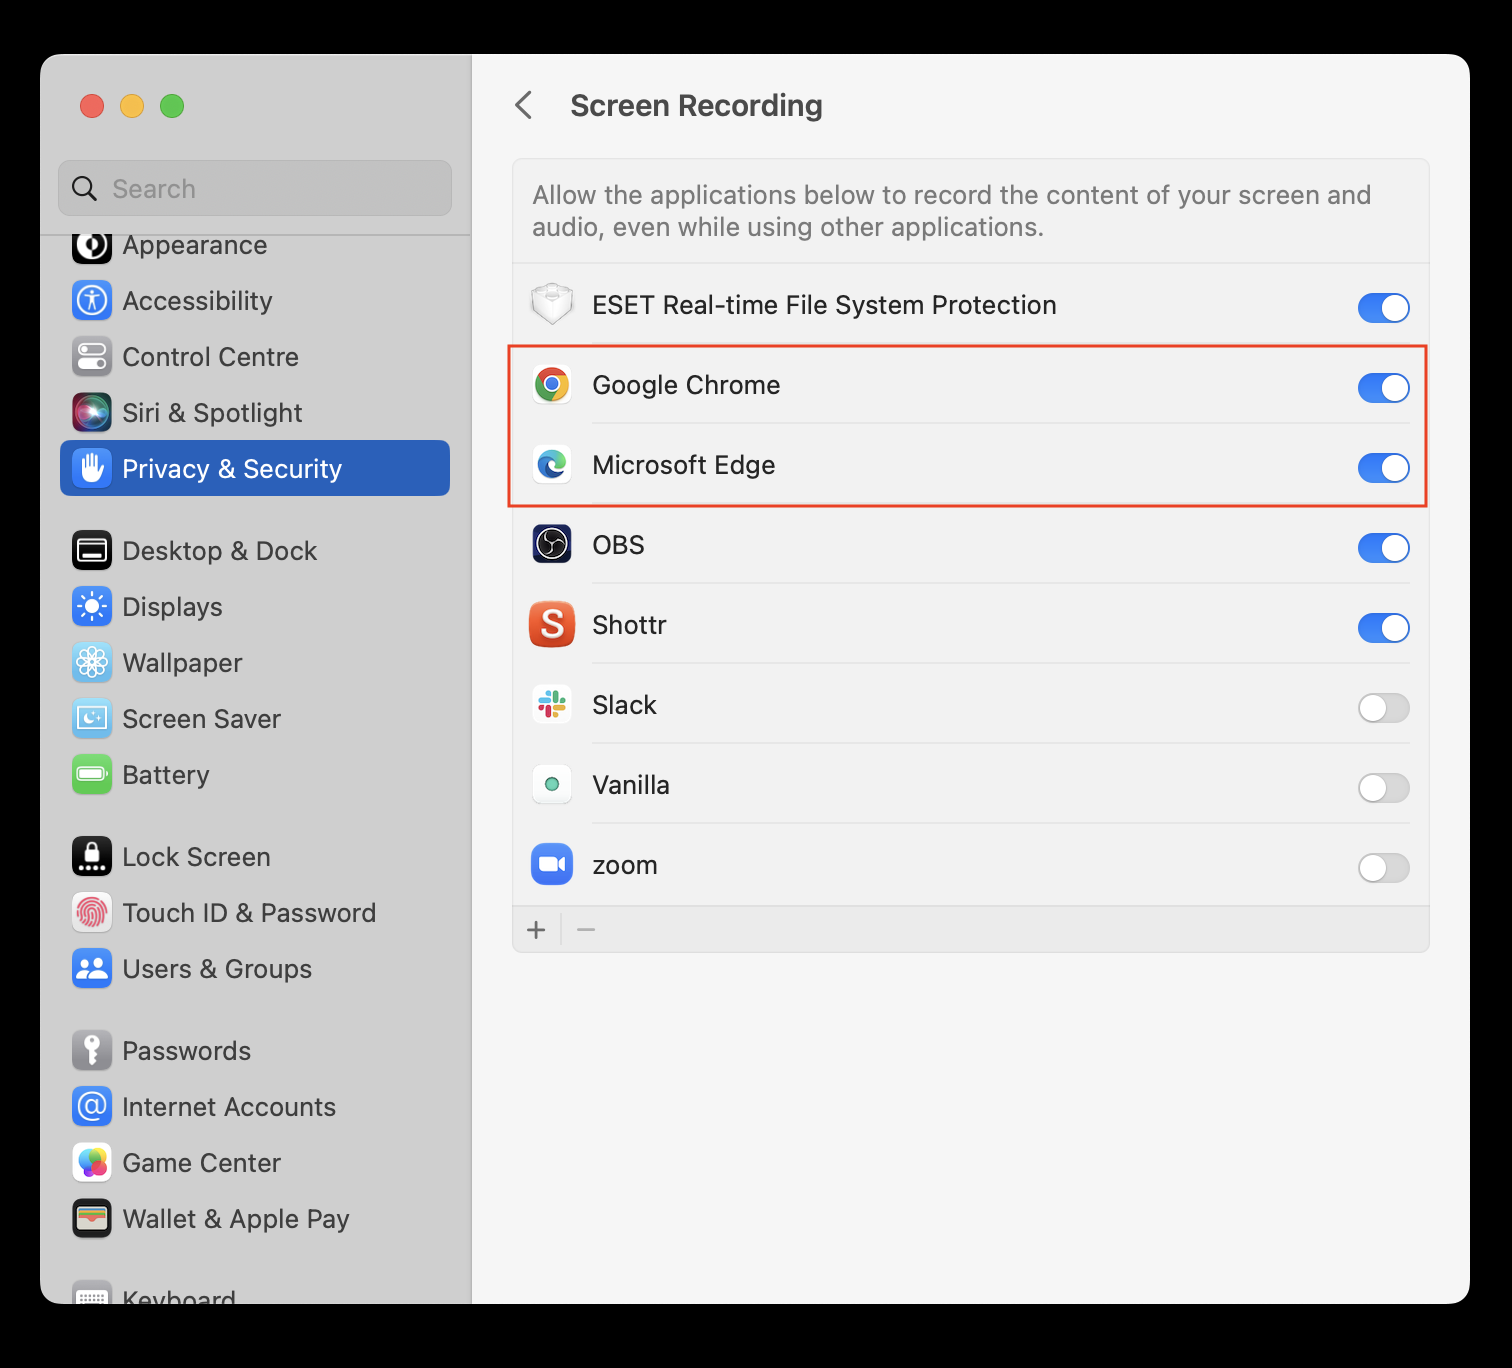
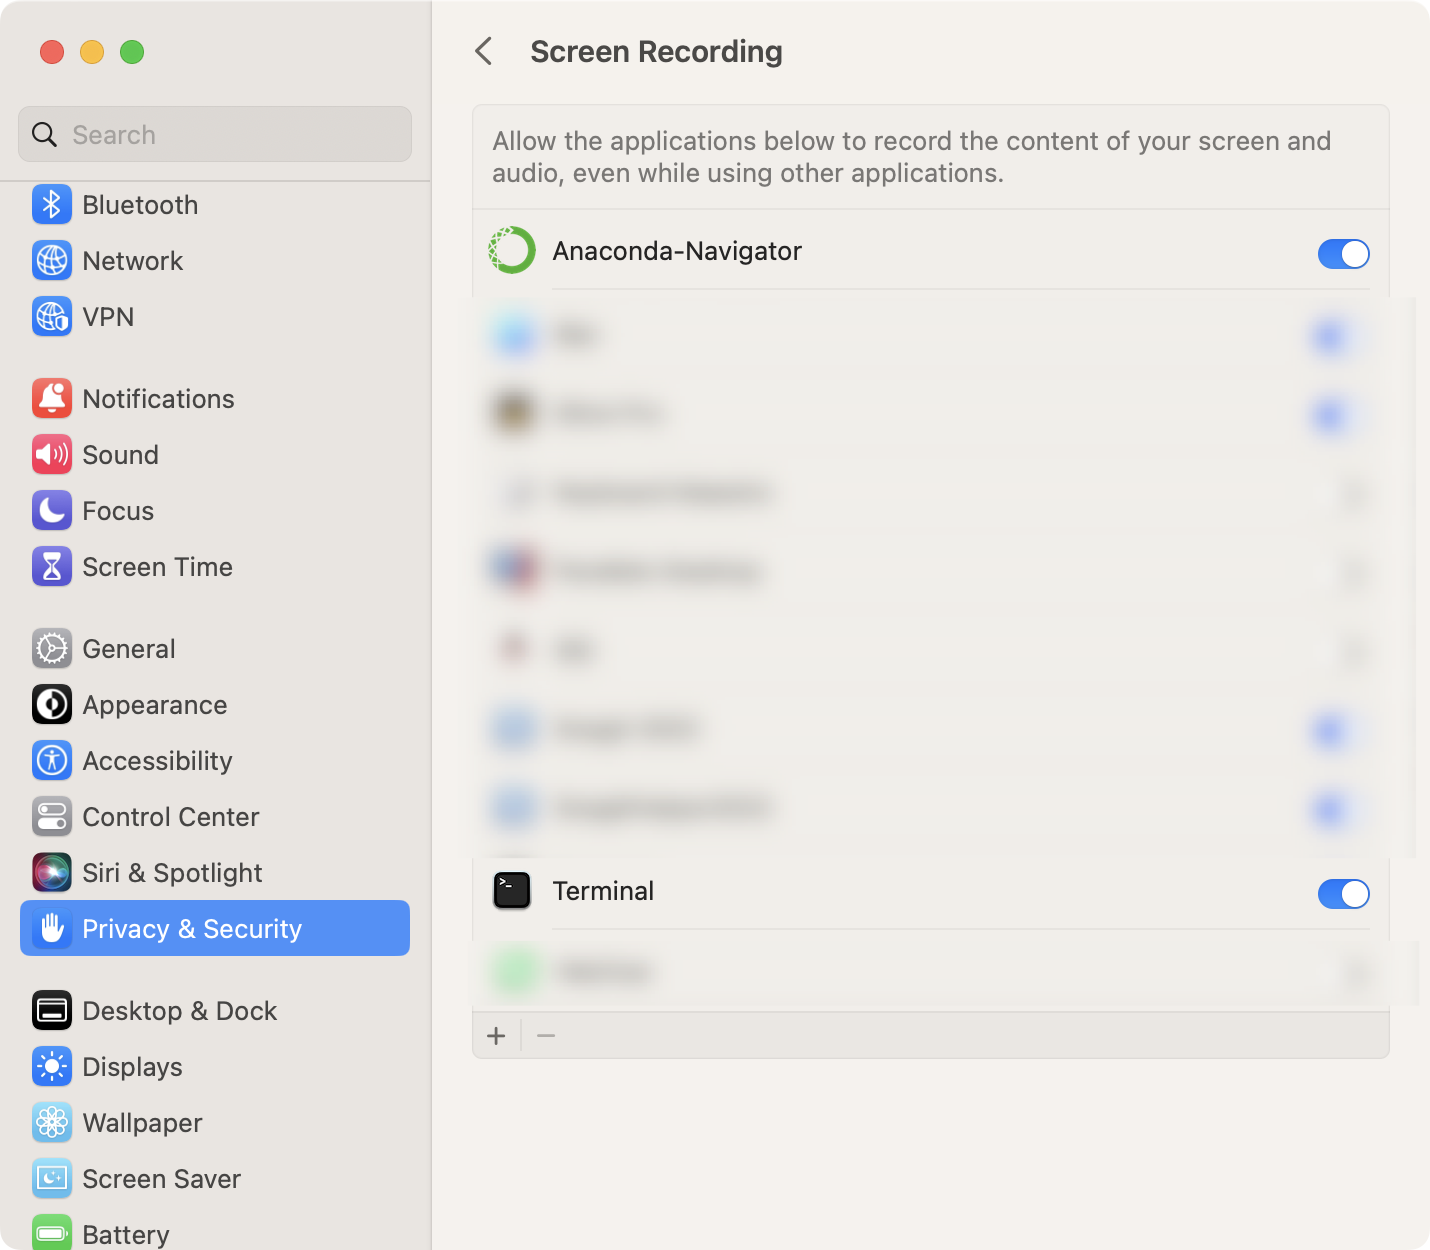
Clarify Terminal privacy permissions in setup guide (#22)
Use Terminal-focused Screen Recording and Accessibility screenshots and document that macOS may attribute shell-launched permission requests to the terminal host rather than a dedicated iPad Display/helper entry.

diff --git a/docs/setup.md b/docs/setup.md
@@ -35,17 +35,19 @@ The network check should report `192.168.2.1` as present before starting the dis
 
 ## 3. Grant Screen Recording for display capture
 
-Run the display once so macOS can register the capture process:
+Run the display once so macOS registers a Screen Recording request:
 
 ```bash
 ipad
 ```
 
-Then open **System Settings → Privacy & Security → Screen Recording** and enable the entry macOS added for the iPad Display/Electron capture process. If macOS asks you to quit or restart the process, do so, then start `ipad` again.
+Then open **System Settings → Privacy & Security → Screen Recording**. For the normal Terminal-launched install, macOS may attribute the request to **Terminal** rather than showing an `iPad Display` or Electron entry. Enable **Terminal** when that is the requester shown. If you launch the project from iTerm2, another terminal, or an IDE instead, enable the application macOS lists for that launch path.
 
-<img src="assets/setup/screen-recording-ventura.png" alt="macOS Ventura Screen Recording privacy settings" width="720">
+Do not wait for a specifically named `iPad Display` entry if macOS has already listed Terminal. After changing the permission, quit/restart the requesting application if macOS asks, then start `ipad` again.
 
-Screenshot source: [Coviu — Enabling Screen Recording/Sharing for macOS Ventura](https://help.coviu.com/knowledge/enabling-screen-recording/sharing-for-mac-os-ventura).
+<img src="assets/setup/screen-recording-ventura.png" alt="macOS Screen Recording settings showing Terminal in the permitted-app list" width="720">
+
+Screenshot source: [CNBlogs — macOS Screen Recording settings example](https://www.cnblogs.com/ZJT7098/p/17695865.html).
 
 ## 4. Open the viewer on the iPad
 
@@ -75,13 +77,15 @@ Start touch mode once:
 ipad touch
 ```
 
-Open **System Settings → Privacy & Security → Accessibility** and enable the entry macOS adds for the iPad touch helper. Restart `ipad touch` if macOS asks you to restart the process after granting permission.
+Open **System Settings → Privacy & Security → Accessibility**. As with Screen Recording, a helper launched from the command line can be attributed to the terminal application that launched it. For the normal Terminal workflow, enable **Terminal** when that is the entry macOS presents. If macOS instead lists the helper itself or another terminal/IDE you used to launch it, enable that listed requester.
 
-<img src="assets/setup/accessibility-ventura.png" alt="macOS Ventura Accessibility privacy settings" width="720">
+Restart `ipad touch` if macOS asks you to restart the requesting process after granting permission.
 
-Screenshot source: [IBM Community — Mac testing made easy](https://community.ibm.com/community/user/blogs/unnati-swami/2023/06/06/mac-testing-made-easy).
+<img src="assets/setup/accessibility-ventura.png" alt="macOS Accessibility settings showing Terminal in the permitted-app list" width="720">
 
-The first three-finger Mission Control or Spaces gesture may also make macOS ask whether the helper may control **System Events**. Approve that Automation request if it appears.
+Screenshot source: [Stack Overflow — Terminal Accessibility example](https://stackoverflow.com/questions/53103394/robot-mousemove-does-not-work-at-all-in-mac-os-x).
+
+The first three-finger Mission Control or Spaces gesture may also make macOS ask whether the requester may control **System Events**. Approve that Automation request if it appears.
 
 ## 6. Final checks
 
